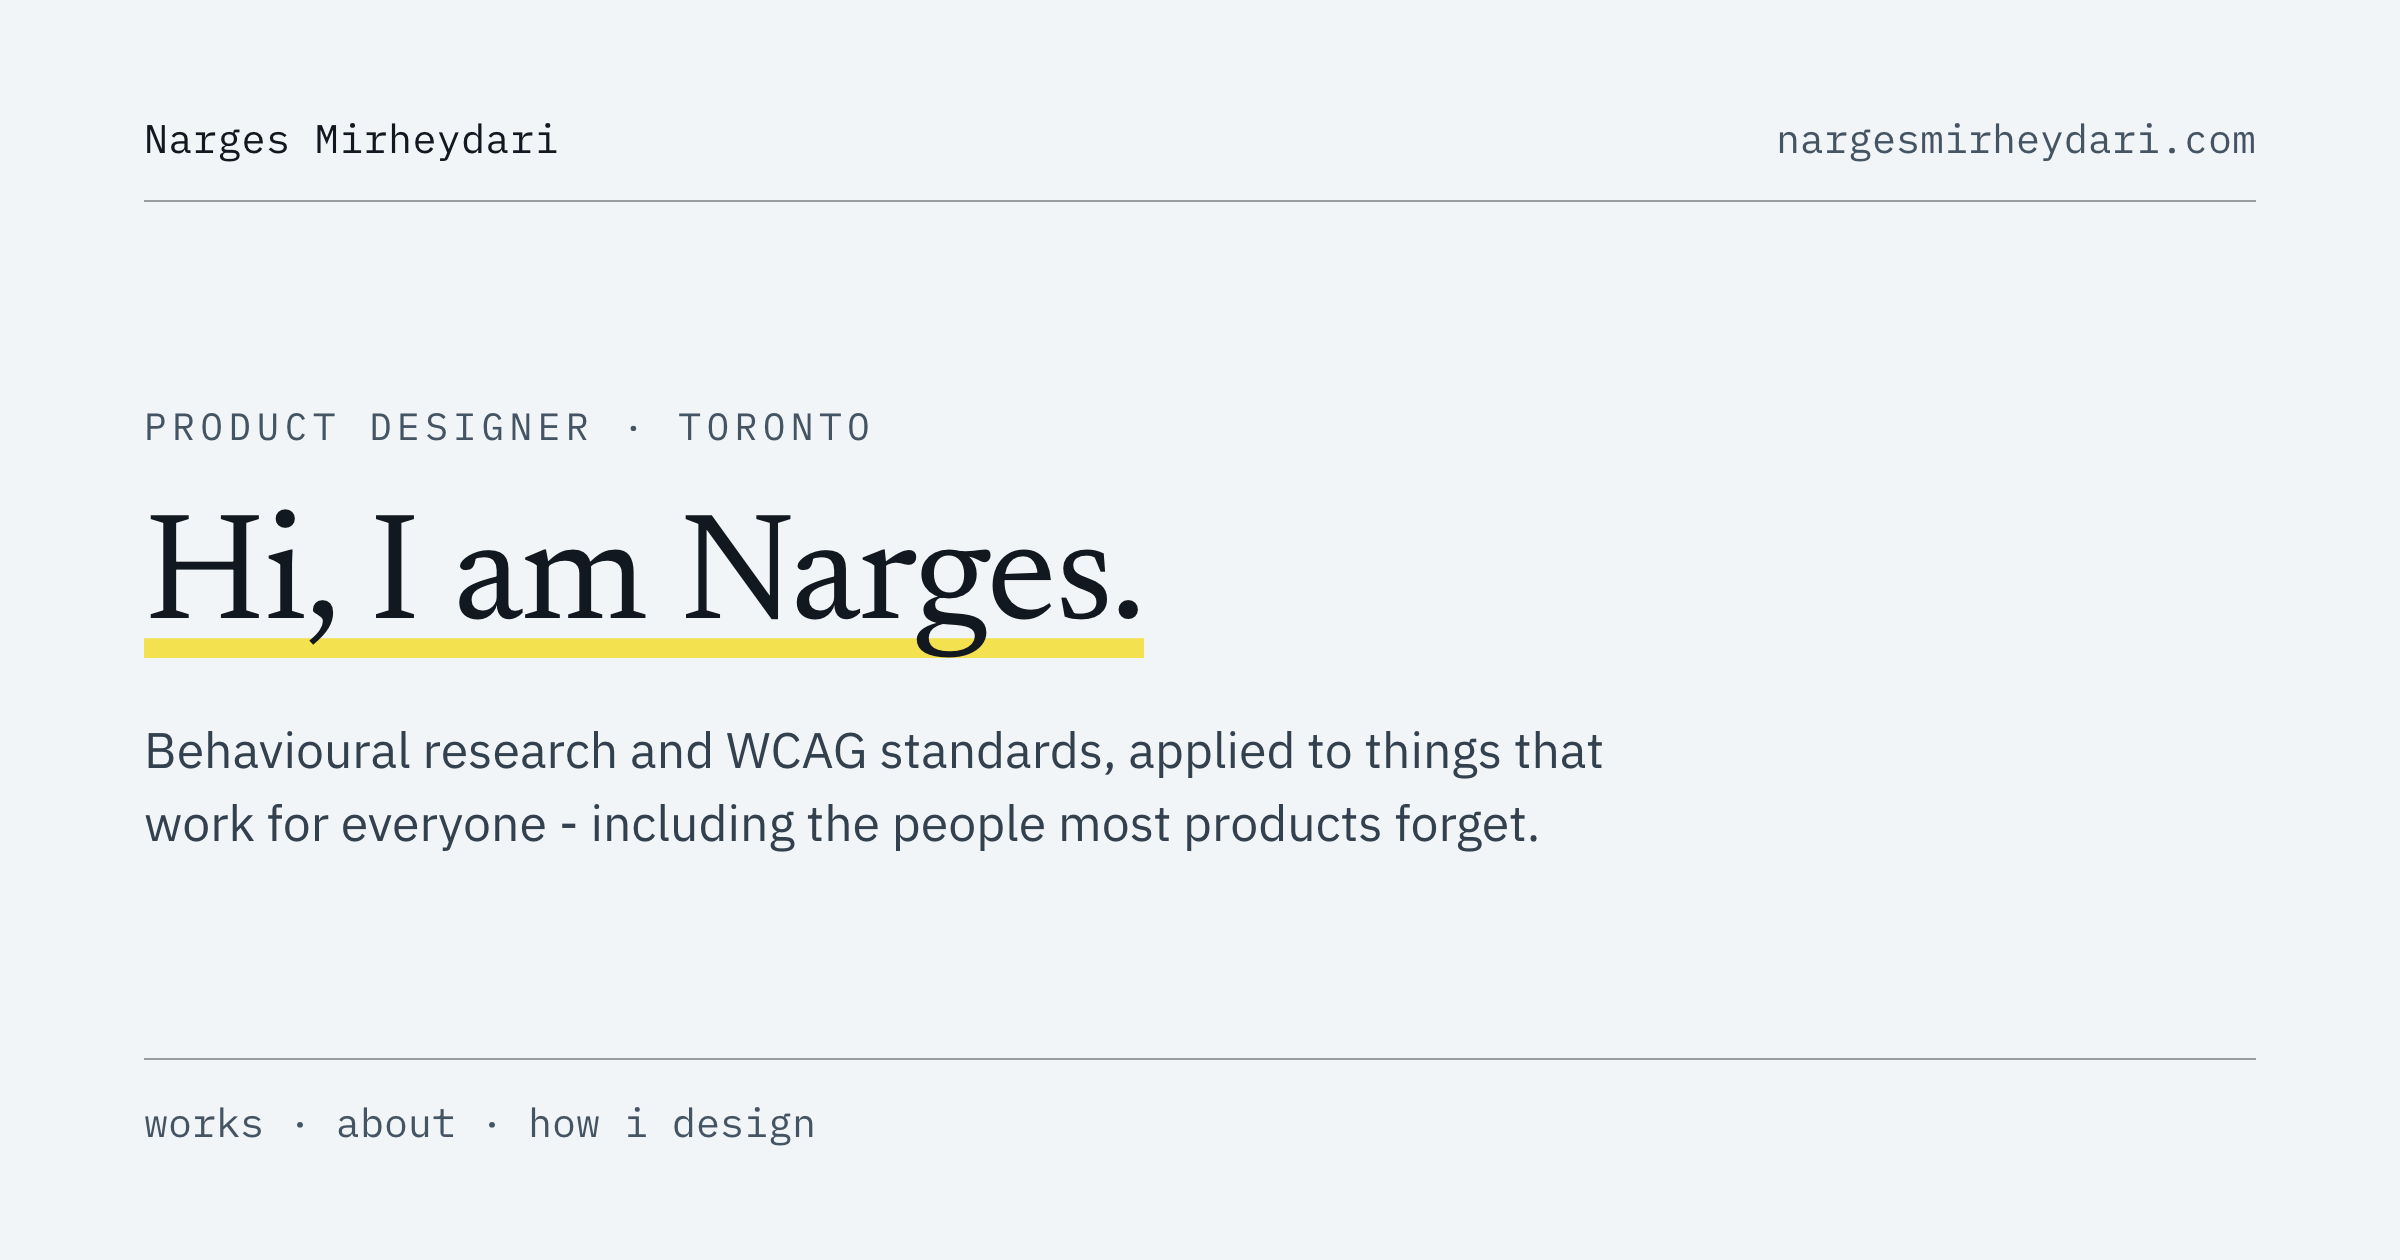
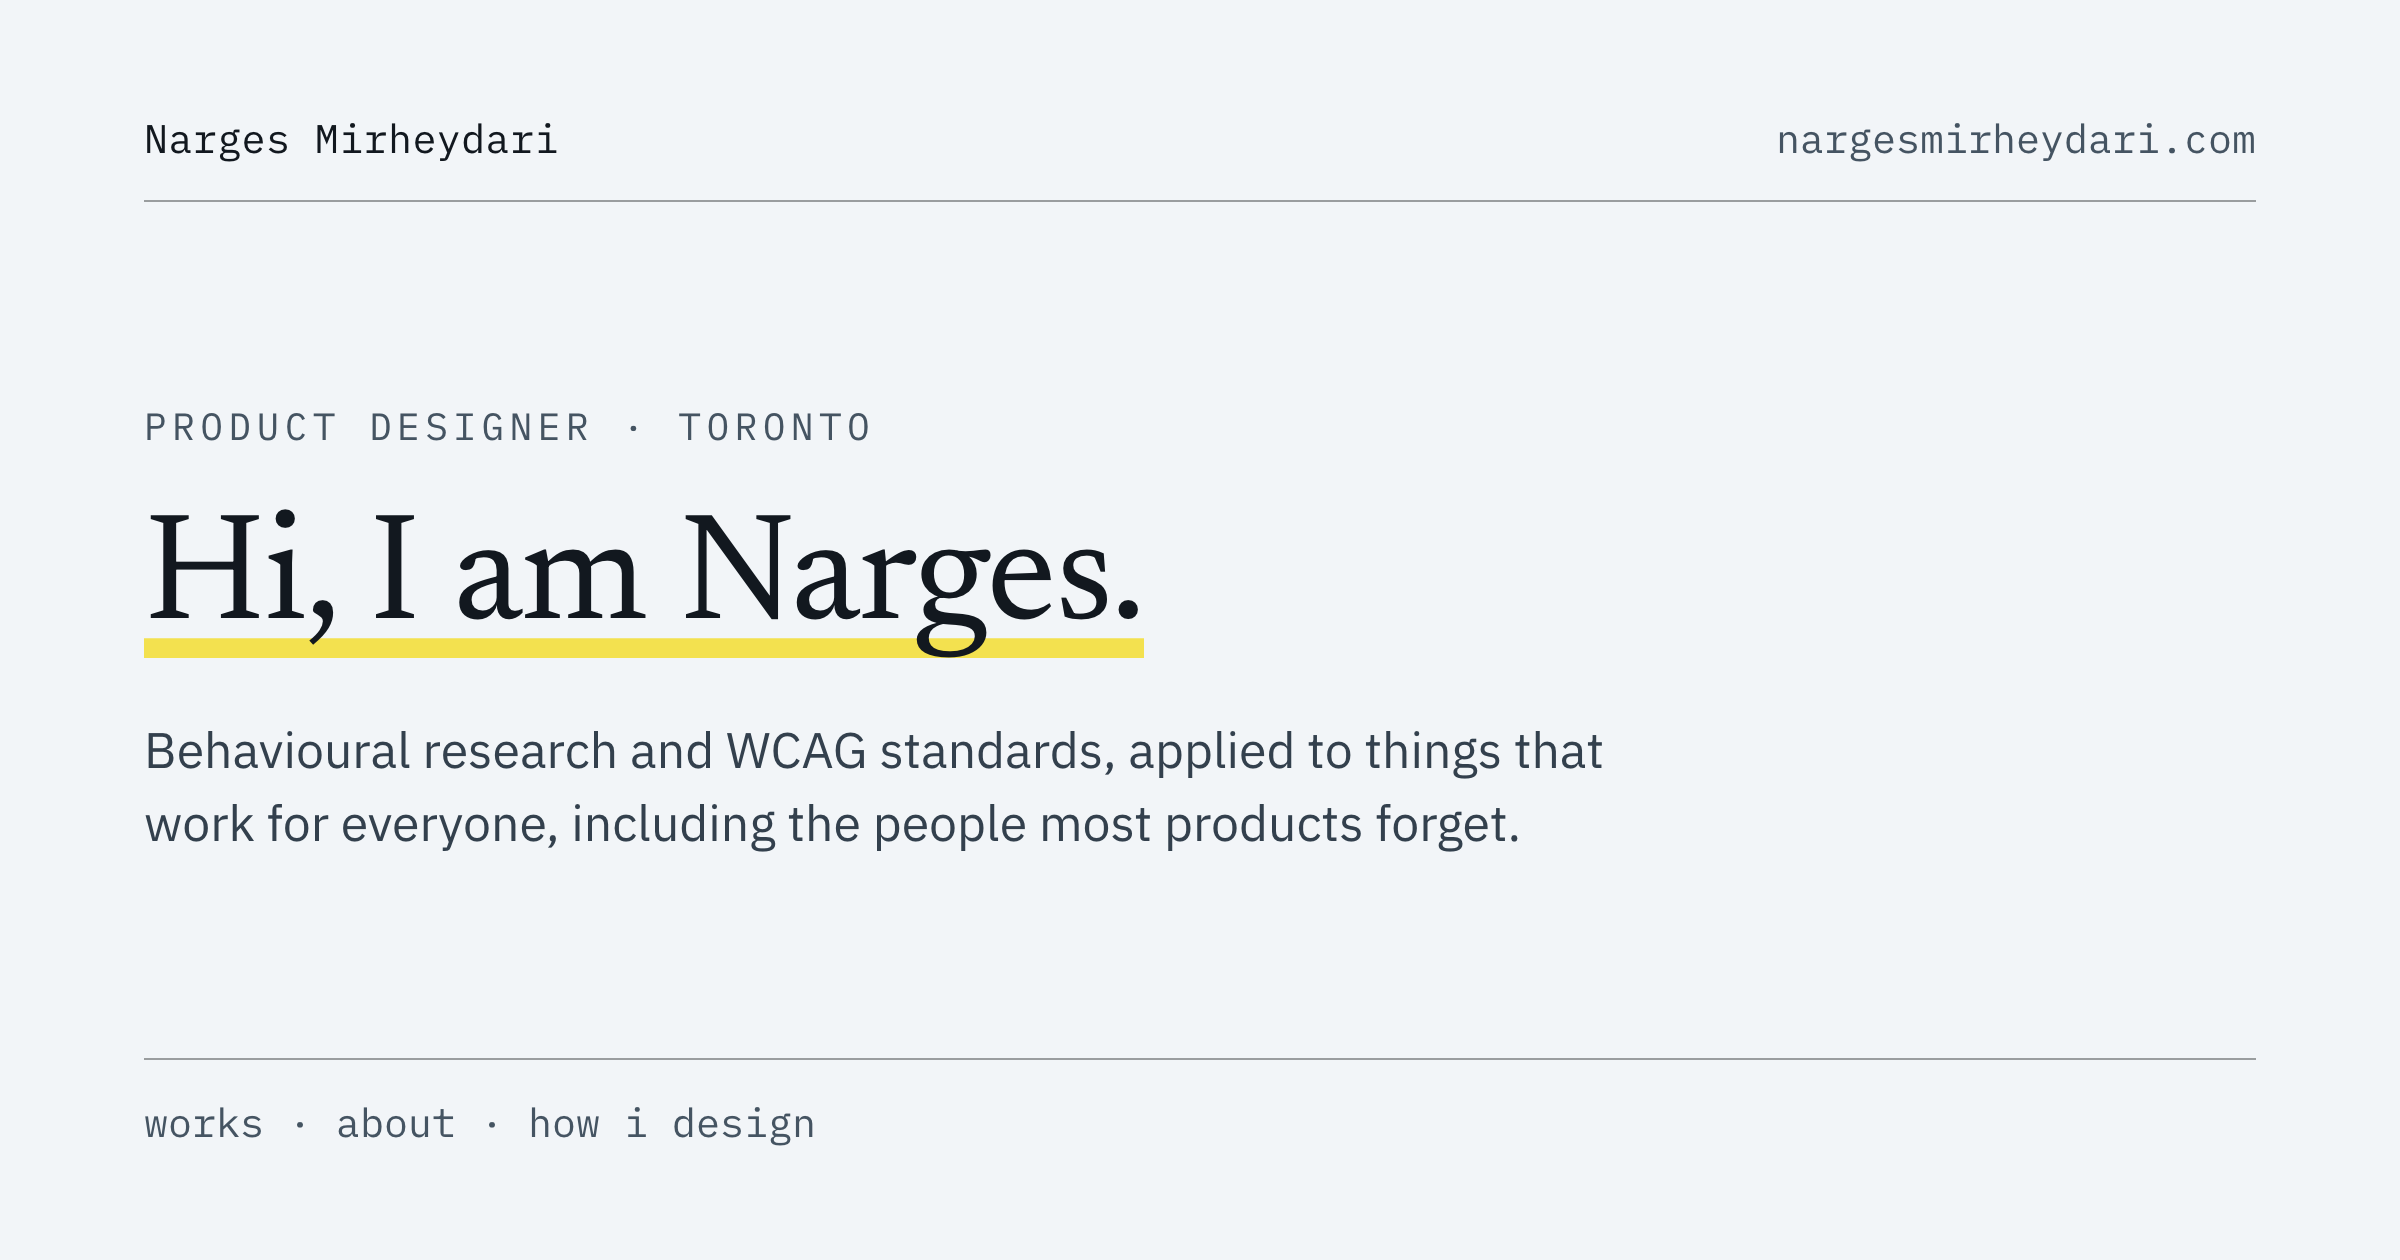
Use commas in the source comments, and redraw the share cards
The comments were the last place the dash was still standing in for
punctuation. Code is untouched: the date arithmetic in AdminStats and
the split delimiter in share.ts stay as they are.

Redrawing the cards picks up the comma copy. Both case-study cards now
clip mid-sentence, because opening() split summaries at the ' - ' to
take the first clause and that delimiter is gone.

Changed region(s): [[0.2188, 0.619, 0.625, 0.681]]

diff --git a/src/lib/share.ts b/src/lib/share.ts
@@ -1,12 +1,12 @@
 /*
- * Link previews - the card a page turns into when someone pastes its URL into
+ * Link previews, the card a page turns into when someone pastes its URL into
  * Slack, LinkedIn, iMessage or a DM.
  *
  * With nothing in <head> a shared link renders as a bare domain and a grey
  * box, which is the one thing a portfolio link cannot afford: the moment it is
  * most likely to be seen by a stranger is the moment it says least.
  *
- * This file is the single source for both halves of the card - the picture in
+ * This file is the single source for both halves of the card, the picture in
  * public/og/ and the meta tags in the layout. Keeping them together is the
  * point: a card cannot end up describing a page differently from the page
  * itself, because both read the same entry.
@@ -17,13 +17,13 @@
  */
 
 // Explicit .ts because tools/share-cards.mjs runs this file straight through
-// node, which - unlike Vite - will not guess the extension.
+// node, which, unlike Vite, will not guess the extension.
 import { projects } from '../data/projects.ts';
 
 /*
  * The size every platform crops to, and the factor the picture is actually
  * drawn at so it stays sharp on a retina screen. The meta tags report the
- * file's real pixels - width times scale - because a scraper told the wrong
+ * file's real pixels, width times scale, because a scraper told the wrong
  * dimensions can crop the card on the strength of them.
  */
 export const cardLayout = { width: 1200, height: 630, scale: 2 } as const;
@@ -36,12 +36,12 @@ export type ShareCard = {
   /** The headline, set in Newsreader under the yellow highlighter. */
   title: string;
   /**
-   * One supporting sentence. The card gives it two lines - about 125
-   * characters - and clips whatever runs past them, so write to the budget
+   * One supporting sentence. The card gives it two lines, about 125
+   * characters, and clips whatever runs past them, so write to the budget
    * rather than trusting the clip to land somewhere sensible.
    */
   sub?: string;
-  /** Mono line along the bottom - counted things, never claims. */
+  /** Mono line along the bottom, counted things, never claims. */
   kicker?: string;
 };
 
@@ -87,7 +87,7 @@ const pages: ShareCard[] = [
 
 /**
  * The opening clause of a project summary. A summary runs longer than a card
- * can hold, and a card that simply cuts it off stops mid-sentence - so the
+ * can hold, and a card that simply cuts it off stops mid-sentence, so the
  * card takes the first clause whole and lets the page carry the rest.
  */
 function opening(summary: string): string {
@@ -127,7 +127,7 @@ export function cardFor(path: string): ShareCard {
 
 /**
  * What the card says, for someone who cannot see it. Built from the card
- * rather than written per page, so it cannot drift out of date - and never
+ * rather than written per page, so it cannot drift out of date, and never
  * omitted, since an image with no alt text on an accessibility portfolio
  * would undercut the page it is advertising.
  */

diff --git a/src/data/projects.ts b/src/data/projects.ts
@@ -1,16 +1,16 @@
 /*
  * One entry per product-design project. Each becomes a folder on
- * /product-design/ and a case study at /work/<slug>/ - adding a project here
+ * /product-design/ and a case study at /work/<slug>/, adding a project here
  * is the whole job; no route or component needs touching.
  *
  * Entries marked `draft: true` are unfinished: the shape is real, the copy is
  * a prompt. They render with a DRAFT chip on the folder and a notice at the
  * top of the case study, so nothing unwritten can pass for a claim. Replace
- * the copy and delete the flag - or delete the entry.
+ * the copy and delete the flag, or delete the entry.
  */
 
 /**
- * An image file. `alt` is required and never decorative - a case study about
+ * An image file. `alt` is required and never decorative, a case study about
  * accessibility cannot ship an unlabelled image. `w`/`h` are the file's real
  * pixel dimensions, so the browser reserves the space before the image loads
  * and nothing below it jumps.
@@ -26,7 +26,7 @@ export type Img = {
 
 /** An image inside a section, captioned in its own right. */
 export type Shot = Img & {
-  /** Short mono label at the head of the caption - 'light', 'dark'. */
+  /** Short mono label at the head of the caption, 'light', 'dark'. */
   tag?: string;
   caption: string;
   /** A measured value printed beside the caption, e.g. a contrast ratio. */
@@ -70,11 +70,11 @@ export type Section = {
 };
 
 export type Project = {
-  /** URL segment. Lowercase, hyphenated, stable - it is a public link. */
+  /** URL segment. Lowercase, hyphenated, stable, it is a public link. */
   slug: string;
   /** Folder title. Lowercase, matching the folders on the home page. */
   title: string;
-  /** Folder-panel summary - what the project was, in one or two lines. */
+  /** Folder-panel summary, what the project was, in one or two lines. */
   summary: string;
   /** The mono line under the summary, reading like a label on a real file. */
   contents: string;
@@ -84,10 +84,10 @@ export type Project = {
   meta: [label: string, value: string][];
   /** The opening image. Without one the slot renders a placeholder stripe. */
   hero?: Img;
-  /** Caption for the hero - or, with no hero, what belongs in the slot. */
+  /** Caption for the hero, or, with no hero, what belongs in the slot. */
   heroCaption: string;
   sections: Section[];
-  /** Three figures. Measured values only - the site claims nothing it has not counted. */
+  /** Three figures. Measured values only, the site claims nothing it has not counted. */
   metrics: [figure: string, label: string][];
   draft?: boolean;
 };

diff --git a/src/components/FolderStack.tsx b/src/components/FolderStack.tsx
@@ -8,7 +8,7 @@ export type FolderItem = {
   num: string;
   title: string;
   description: string;
-  /** The mono line under the description - reads like a label on a real file. */
+  /** The mono line under the description, reads like a label on a real file. */
   contents?: string;
   /** Both omitted while a folder has nothing to open yet. */
   cta?: string;
@@ -17,7 +17,7 @@ export type FolderItem = {
   tone: string;
   /** Tab offset, so the tabs form a staircase. */
   tabOffset: number;
-  /** Optional short status word - shown beside the title, e.g. DRAFT. */
+  /** Optional short status word, shown beside the title, e.g. DRAFT. */
   badge?: string;
 };
 
@@ -25,7 +25,7 @@ type Props = {
   items: FolderItem[];
   /** Sits above the pile, outside the list. */
   caption: string;
-  /** Names the list for screen readers - a page can hold more than one stack. */
+  /** Names the list for screen readers, a page can hold more than one stack. */
   label: string;
 };
 
@@ -113,7 +113,7 @@ export default function FolderStack({ items, caption, label }: Props) {
     <div className="stack">
       <p className="stack-caption mono">{caption}</p>
 
-      {/* A list rather than loose divs - the caption sits outside it so the
+      {/* A list rather than loose divs, the caption sits outside it so the
           list has only listitem children. */}
       <div role="list" aria-label={label}>
         {items.map((f, i) => {
@@ -131,7 +131,7 @@ export default function FolderStack({ items, caption, label }: Props) {
             style={
               {
                 // The closed-state tone only. --folder-bg is derived from it
-                // in CSS so the open state can override it - an inline
+                // in CSS so the open state can override it, an inline
                 // --folder-bg would outrank any stylesheet rule.
                 '--folder-tone': f.tone,
                 '--tab-offset': `${f.tabOffset}px`,

diff --git a/src/components/AdminStats.tsx b/src/components/AdminStats.tsx
@@ -35,8 +35,8 @@ type State =
 const numberFormat = new Intl.NumberFormat('en-CA');
 
 /* Dates from the API are calendar days in UTC. Formatting them in the local
-   zone would slide them a day for anyone west of Greenwich - including here in
-   Toronto - so the timezone is pinned to match the bucket. */
+   zone would slide them a day for anyone west of Greenwich, including here in
+   Toronto, so the timezone is pinned to match the bucket. */
 const dayFormat = new Intl.DateTimeFormat('en-CA', {
   month: 'short',
   day: 'numeric',
@@ -89,7 +89,7 @@ export default function AdminStats() {
 
       /* There is no Worker in front of `astro dev`, so locally this always
          fails. Rather than leaving the page undesignable offline, dev falls
-         back to sample numbers - loudly labelled, and impossible in a
+         back to sample numbers, loudly labelled, and impossible in a
          production build because the branch is compiled out. */
       if (import.meta.env.DEV) {
         setState({ status: 'ready', stats: sampleStats(days), sample: true });
@@ -284,7 +284,7 @@ function DailyChart({
         {/*
           A real description, not "chart of visits". Someone who cannot see the
           bars should finish this sentence knowing what the bars would have told
-          them, which means the shape of the period and its peak - not a label.
+          them, which means the shape of the period and its peak, not a label.
         */}
         <p>
           {first && last

diff --git a/src/components/RotatingWord.tsx b/src/components/RotatingWord.tsx
@@ -2,7 +2,7 @@ import { useEffect, useState } from 'react';
 
 /*
  * Assistive tech first, then the ordinary conditions everyone designs around
- * badly - a tired brain, a split attention, a second language, bad signal -
+ * badly, a tired brain, a split attention, a second language, bad signal -
  * then the thing the market is scrambling to get right. 'everyone' stays last
  * because it is the claim the rest of the list has to earn.
  */
@@ -23,7 +23,7 @@ const INTERVAL_MS = 2600;
  * "Designing for < word >", cycling.
  *
  * aria-live="polite" so the change is announced without interrupting, and the
- * interval is never scheduled at all under reduced motion - stopping the CSS
+ * interval is never scheduled at all under reduced motion, stopping the CSS
  * animation would not stop the text from changing underneath someone.
  */
 export default function RotatingWord() {

diff --git a/src/components/ReadingRail.tsx b/src/components/ReadingRail.tsx
@@ -4,7 +4,7 @@ import { setPrefs, type Prefs } from '../lib/prefs';
 /**
  * The three reading controls, docked to the right edge of the viewport.
  *
- * These are real toggles (aria-pressed), not links or menu items - the state
+ * These are real toggles (aria-pressed), not links or menu items, the state
  * is the point, and it has to be announced. Page content reserves 190px of
  * right padding so the rail never sits on top of text; below 900px the rail
  * unpins and sits inline under the header instead.

diff --git a/src/components/wireframes/sheets.tsx b/src/components/wireframes/sheets.tsx
@@ -2,7 +2,7 @@
  * The five wireframe sheets, reproduced as they were drawn.
  *
  * These are deliberately low-fidelity: they are evidence of the process, not
- * UI. The orange notes are the point - each one records the accessibility
+ * UI. The orange notes are the point, each one records the accessibility
  * reasoning behind a decision on that screen.
  *
  * Everything here is decorative-adjacent but readable, so it stays real text

diff --git a/src/lib/usePrefs.ts b/src/lib/usePrefs.ts
@@ -2,7 +2,7 @@ import { useSyncExternalStore } from 'react';
 import { readPrefs, subscribe, type Prefs } from './prefs';
 
 /*
- * useSyncExternalStore requires a referentially stable snapshot - returning a
+ * useSyncExternalStore requires a referentially stable snapshot, returning a
  * fresh object from readPrefs() on every call would loop forever. So the
  * snapshot is cached and only re-read when a change event fires.
  */

diff --git a/src/components/Wireframes.tsx b/src/components/Wireframes.tsx
@@ -73,7 +73,7 @@ const SHEETS: {
 
 /**
  * Two ways to read the same five sheets: walk them like a visitor would, or
- * lay them all out at once. Both are the same content - the switcher changes
+ * lay them all out at once. Both are the same content, the switcher changes
  * presentation only, so nobody has to use the interactive mode to see it all.
  */
 export default function Wireframes() {

diff --git a/src/lib/prefs.ts b/src/lib/prefs.ts
@@ -7,7 +7,7 @@
  * boot script (which runs before React exists) and the React controls are
  * reading and writing exactly the same thing, so they cannot disagree.
  *
- * These are accessibility settings, not cosmetic ones - they must survive
+ * These are accessibility settings, not cosmetic ones, they must survive
  * navigation and reload, so nothing here is component state.
  */
 

diff --git a/src/components/Marquee.tsx b/src/components/Marquee.tsx
@@ -6,7 +6,7 @@ const STRIP =
 
 /**
  * Decorative ticker. aria-hidden because every term in it appears as real
- * content elsewhere on the site - nothing is only here.
+ * content elsewhere on the site, nothing is only here.
  *
  * Two identical spans translate -50% together so the loop is seamless.
  */
